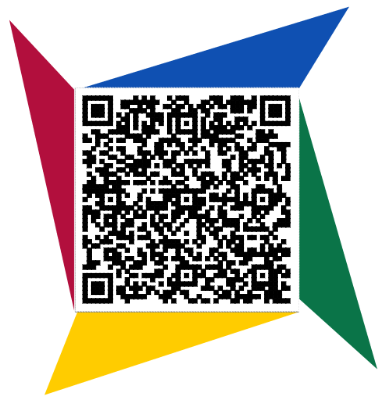
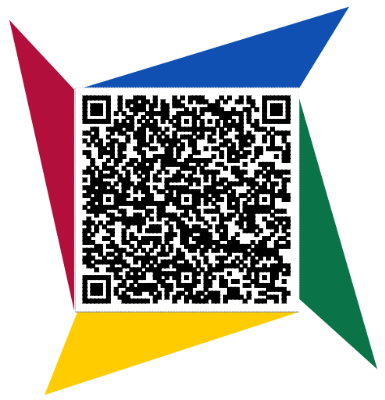
新增1.1.0版本

Changed region(s): [[0.187, 0.24, 0.7792, 0.78]]

diff --git a/README.md b/README.md
@@ -32,7 +32,7 @@ implementation 'com.coder.command:ffmpeg:${latestVersion})'
 
 ## 【Demo下载】
 
-| 扫码 or [点击下载](https://github.com/AnJoiner/FFmpegCommand/blob/master/app/release/app-release.apk)  |
+| 扫码 or [点击下载](https://raw.githubusercontent.com/AnJoiner/FFmpegCommand/master/app/release/app-release.apk)  |
 | :--------:   |
 | <img src="images/qr-code.png" alt="图-4：扫码下载体验" width="260px" />       |
 
